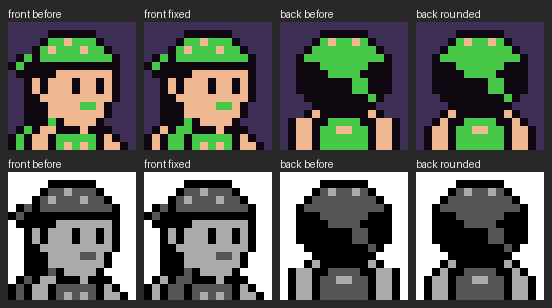
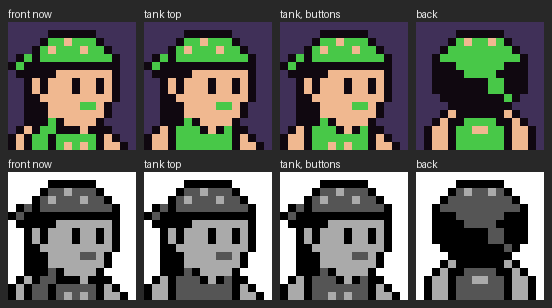
Q74: HARLEY tank top for a clearer left arm; Q77: current BASIL with beards
Claude-Session: https://claude.ai/code/session_01WXumg9pvGTKbXyU3qBciuY

diff --git a/tools/artifacts/open_questions/index.html b/tools/artifacts/open_questions/index.html
@@ -101,9 +101,9 @@ audio { width: 100%; max-width: 420px; }
   <section class="card" id="q74">
     <div class="tag">Q74</div>
     <h2>HARLEY: woodcarver, bare arms</h2>
-    <p class="ask">Left arm moved to the outer column, back shoulders rounded. OK to put in the game?</p>
+    <p class="ask">Tank top or tank with buttons? Then into the game?</p>
     <ul>
-      <li>Before | fixed, front and back</li>
+      <li>Front now | tank top | tank, buttons | back</li>
       <li>DMG and Color</li>
     </ul>
     <div class="media"><img src="media/q74_harley_wood.png" alt="HARLEY woodcarver with bare arms"></div>
@@ -123,11 +123,12 @@ audio { width: 100%; max-width: 420px; }
   <section class="card" id="q77">
     <div class="tag">Q77</div>
     <h2>PINOT or BASIL rework</h2>
-    <p class="ask">PINOT A, PINOT B, BASIL A, BASIL B, or none?</p>
+    <p class="ask">PINOT A, PINOT B, BASIL A, BASIL B, current BASIL with full or short beard, or none?</p>
     <ul>
       <li>Current | A | B, front and back; 1x lineups below</li>
       <li>PINOT: Color only · BASIL: DMG and Color</li>
     </ul>
+    <div class="media"><img src="media/q77_basil_beard.png" alt="Current BASIL with beards"></div>
     <div class="media"><img src="media/q77_pinot_basil.png" alt="PINOT and BASIL reworks"></div>
   </section>
 </div>
